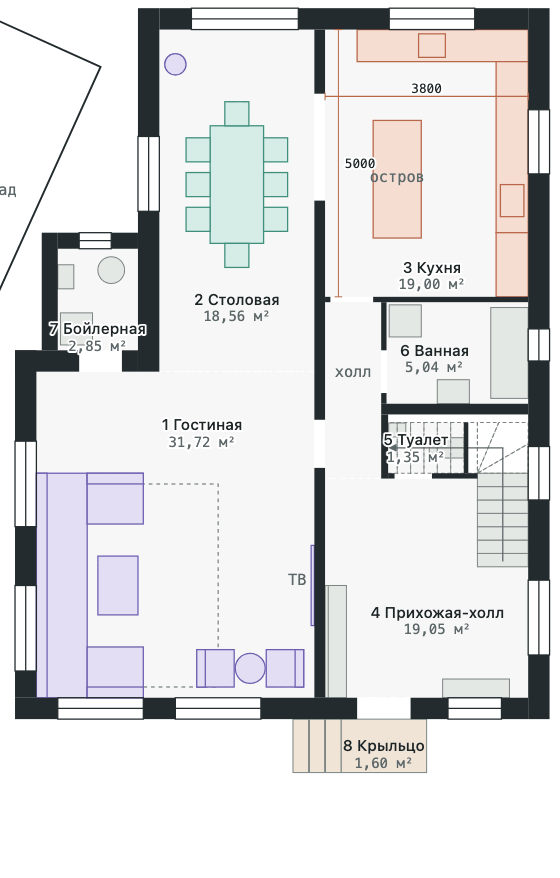
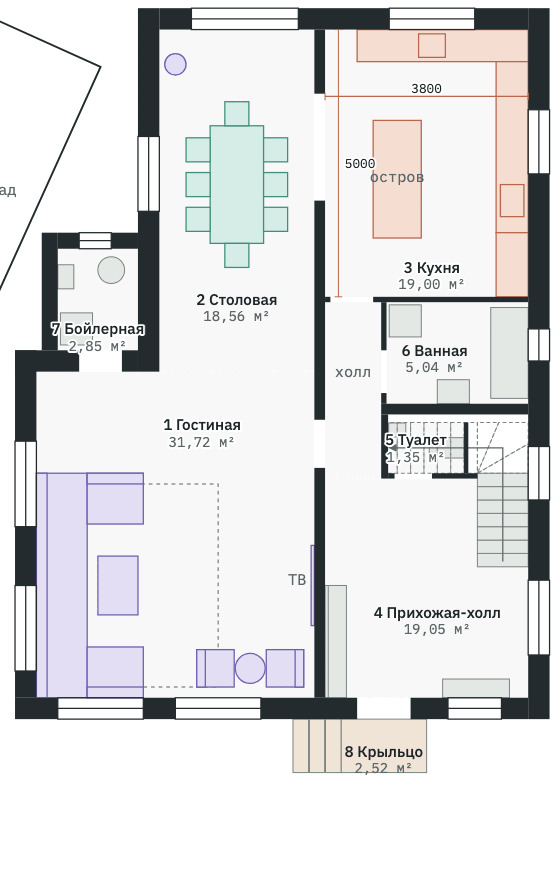
Variant 5: wide front-facing porch, roof timber frame view, brief build plan

diff --git a/dom/v5-dvuskatnaya.html b/dom/v5-dvuskatnaya.html
@@ -99,6 +99,7 @@ tr.out td{color:var(--muted)}
 <button id="fl-0" data-f="0" aria-pressed="false">Только фундамент</button>
 <span class="sep" aria-hidden="true"></span>
 <button id="roof-btn" aria-pressed="true">Крыша</button>
+<button id="raft-btn" aria-pressed="false" title="Снять кровлю и показать стропильную систему">Каркас крыши</button>
 <button id="truck-btn" aria-pressed="false" title="Показать или убрать грузовик у ворот">Машина</button>
 </div>
 <div class="bar big" id="tabs"><span class="lbl">Вид</span>
@@ -135,7 +136,7 @@ tr.out td{color:var(--muted)}
 <tr><td>3</td><td>Ростверк 300 × 400 под несущей стеной и бойлерной, 16,2 м</td><td>1,9 м³</td></tr>
 <tr><td>4</td><td>Плита перекрытия 200 мм, 122,2 м²</td><td>24,4 м³</td></tr>
 <tr class="sum"><td></td><td>Бетон под дом</td><td>39,0 м³</td></tr>
-<tr class="out"><td>5</td><td>Крыльцо со ступенями, если монолитом</td><td>≈ 1,4 м³</td></tr>
+<tr class="out"><td>5</td><td>Крыльцо со ступенями, если монолитом</td><td>≈ 2,2 м³</td></tr>
 <tr class="out"><td>6</td><td>Площадка в сад со ступенями, если монолитом</td><td>≈ 2,7 м³</td></tr>
 </table>
 <table id="tu" style="margin-top:14px"><caption>Выпуски через плиту пола · привязки в м от наружных граней</caption></table>
@@ -151,7 +152,7 @@ tr.out td{color:var(--muted)}
 <tr><td>6</td><td>Ванная</td><td>5,04</td></tr>
 <tr><td>7</td><td>Бойлерная, пристройка</td><td>2,85</td></tr>
 <tr class="sum"><td></td><td>Итого</td><td>97,57</td></tr>
-<tr class="out"><td>8</td><td>Крыльцо</td><td>1,60</td></tr>
+<tr class="out"><td>8</td><td>Крыльцо</td><td>2,52</td></tr>
 </table>
 <table id="t2">
 <caption>Экспликация · 2 этаж</caption>
@@ -197,17 +198,18 @@ tr.out td{color:var(--muted)}
 <li><b>Участки.</b> Новый дом стоит на участке …299. Правая стена в 2 м от границы с …300, это обязательный отступ. Задняя стена дома осталась на месте, дом укоротился спереди, поэтому фасад теперь в 6,5 м от переднего забора. Выступ смотрит в дальний конец участка, вход к воротам. На участке …300 уже стоит двухэтажный дом 11 × 10 м в 2 м от границы и в 6 м от переднего забора. Я нарисовал его по фото. Крыша двускатная несимметричная, конёк идёт от фасада к заднему забору и сдвинут вправо, длинный пологий скат смотрит на новый дом. Карниз примерно на 5 м, конёк на 7,6 м, это оценка по фото. Считаю, что фасад с гаражом смотрит на передний забор. Пристройки сзади не рисовал. Снег с длинного ската будет сходить в двухметровую полосу у границы, так что на этот скат стоит поставить снегозадержатели. Между домами получается 4 м. Это меньше обычного противопожарного разрыва между домами на соседних участках (от 6 м), стоит проверить, как это решается для ваших двух участков. По замерам левый забор проходит на 0,6–0,9 м дальше, чем по кадастровым цифрам, поэтому торец с воротами на плане вышел ≈8,8 м вместо 8. Его лучше перемерить. Забор высотой 2 м идёт по всему внешнему периметру обоих участков, между ними забора нет. Ворота 4,5 м без верхней балки и калитка стоят в нижнем левом торце, от калитки к крыльцу ведёт дорожка.</li>
 <li><b>Что изменилось в этой версии.</b> Дом поднят на 0,7 м над землёй и стоит на ростверке по сваям вместо плиты на грунте. Подвала и приямка больше нет. Длина сократилась с 15,3 до 13,3 м: бойлерная ушла из правой половины в пристройку между домом и складом, прихожая и гостиная стали чуть короче. Кухня переехала на место детской и выросла до 19 м², на её прежнем месте продолжается гостиная. Выреза под крыльцо нет: фасад ровный, входная дверь ближе к центру. Прежняя планировка осталась в истории версий.</li>
 <li><b>Фундамент — ростверк по буронабивным сваям.</b> Сваи Ø300 мм уходят на 2 м в грунт, их 37: по углам, на пересечениях стен и между ними с шагом до 2 м. По сваям ростверк: 400 × 400 мм под наружными стенами и 300 × 400 мм под несущей стеной вдоль дома и под пристройкой бойлерной. Низ ростверка на уровне земли, под ним оставляют зазор 100 мм на пучение. По ростверку монолитная плита перекрытия 200 мм, под ней продуваемое подполье 0,4 м с продухами в ростверке. Отметки от чистого пола: верх плиты −0,100, низ плиты и верх ростверка −0,300, земля −0,700, низ свай −2,700. Бетона под дом ≈ 39 м³: сваи 5,2, ростверк 9,4, плита 24,4. Утеплитель пола кладут под стяжку или подшивают снизу плиты. Это схема: длину, шаг и армирование свай и ростверка считает конструктор по геологии участка. При высоких грунтовых водах или слабом грунте сваи могут понадобиться длиннее 2 м.</li>
-<li><b>Подъём на 0,7 м.</b> Крыльцо сделано компактным, чтобы не мешать заезду машины: площадка 1,6 × 1,0 м на уровне пола прямо у двери, а три ступени идут вбок, вдоль фасада в сторону ворот. Вперёд от стены крыльцо выступает на 1,0 м, до колеи грузовика остаётся 2,5 м. Всего четыре подъёма по 175 мм, сверху навес на двух стойках. У двери в сад площадка 2,4 × 1,2 м со ступенями в сад.</li>
-<li><b>Mercedes Atego с кузовом 7 м</b> (вся машина около 9,3 м) заезжает вдоль переднего забора и проезжает вперёд до границы второго участка. До забора 0,5 м, до фасада около 3,5 м, до крыльца около 2,5 м. Чтобы грузовик заезжал прямо вдоль забора, ворота 4,5 м сдвинуты в самый угол торца, калитка дальше по торцу. Это работает, если с улицы он подъезжает примерно вдоль переднего забора. Площадка засыпана асфальтной крошкой. Кузов высотой около 3,3 м стоит напротив окон гостиной, но теперь дальше от них.</li>
+<li><b>Подъём на 0,7 м.</b> К входной двери ведёт широкое крыльцо, смотрящее вперёд: площадка 1,8 × 1,4 м на уровне пола и три ступени вниз на всю ширину, всего четыре подъёма по 175 мм, над крыльцом навес на двух стойках. От фасада крыльцо выступает на 2,3 м. У двери в сад площадка 2,4 × 1,2 м со ступенями в сад.</li>
+<li><b>Mercedes Atego с кузовом 7 м</b> (вся машина около 9,3 м) заезжает вдоль переднего забора и проезжает вперёд до границы второго участка. До забора 0,5 м, до фасада около 3,5 м, до нижней ступени крыльца около 1,2 м, то есть машина проходит рядом с крыльцом почти впритык. Чтобы грузовик заезжал прямо вдоль забора, ворота 4,5 м сдвинуты в самый угол торца, калитка дальше по торцу. Это работает, если с улицы он подъезжает примерно вдоль переднего забора. Площадка засыпана асфальтной крошкой. Кузов высотой около 3,3 м стоит напротив окон гостиной, но теперь дальше от них.</li>
 <li><b>Склад 5,5 × 5,6 м</b> стоит стороной 5,6 м вплотную к левому забору, под углом ≈24° к дому. Склад обшит OSB. Дверь пластиковая прозрачная, у склада два окна 1 × 1 м: рядом с дверью слева и справа за углом. Через 1 м после склада вдоль забора в сторону ворот стоит вагончик-бытовка 8 × 2,4 м на блоках: обшит серым профлистом, по контуру синий профиль, крыша плоская чёрная. Дверь справа на длинной стороне к двору, окна только в торцах. Между углом склада и задней частью дома 0,7 м, от передней широкой части до склада тоже 0,7 м. В треугольнике между ними теперь стоит пристройка бойлерной, до склада от неё 0,3 м, так что прохода вдоль этой стороны дома нет. Склад стоит на стальных сваях с зазором 40 см от земли. Корпус высотой 3 м со стороны дома и 2 м у забора, крыша со скатом к забору. Вход через обычную пластиковую дверь с крыльцом из трёх ступенек в торце со стороны входа в дом.</li>
 <li><b>Гостиная и столовая.</b> Гостиная заняла всю широкую левую часть от ступеньки дома до фасада, 5,2 × 6,1 м, 31,7 м²; перегородки с кухней больше нет. П-образный диван стоит у левой стены ближе к фасаду, телевизор на несущей стене напротив, у окон на фасад два кресла. Задняя часть гостиной, где раньше была кухня, свободна. В заднем левом углу дверь в бойлерную, дверь в холл — в несущей стене напротив. Столовая осталась в узкой задней части, 2,9 × 6,4 м: стол на 8 человек и стеклянная дверь 2 м в сад. Между столовой и гостиной стены нет.</li>
 <li><b>Кухня</b> на месте детской, справа сзади, 3,8 × 5,0 м, 19 м² вместо 15,6. В столовую из неё открытый проём 2,0 м в несущей стене, в холл — дверь. Столешница с мойкой идёт вдоль задней стены под окном, вдоль правой стены столешница с варочной под вторым окном и высокие колонны, посередине остров 0,9 × 2,2 м. От острова 1,1 м до задней столешницы, 1,4 м до правой и 0,9 м до несущей стены. Подоконники обоих окон подняты до 1,05 м, чтобы под ними прошла столешница. Мебель нарисована условно, перед заказом нужен замер на месте. Детской на первом этаже больше нет.</li>
 <li><b>Бойлерная</b> — одноэтажная пристройка 1,8 × 2,2 м в треугольнике между домом и складом, внутри 1,5 × 1,9 м, 2,85 м². Вход из заднего угла гостиной, окно смотрит в сад. Внутри котёл на стене, бойлер, стиральная и сушильная машины колонной и стеллаж с фильтрами. Сюда же приходит вода и отсюда расходится отопление. Комната вдвое меньше прежней, поэтому электрический щит перенесён в прихожую. Если котёл газовый, размеры и окно бойлерной надо сверить с требованиями газовой службы: обычно нужен объём не меньше 15 м³ и открывающееся окно, а здесь выходит около 8 м³.</li>
 <li><b>Прихожая и вход.</b> Входная дверь стоит в ровной фасадной стене, в 0,6 м от несущей стены, то есть почти по центру фасада. Прихожая-холл 3,8 × 4,1 м вместе с коридором вдоль несущей стены 19,1 м². Слева от двери вдоль несущей стены открытая вешалка 2,1 м со скамьёй, справа под окном обувница, у двери электрический щит. Слева от первого марша лестницы ниша 1,8 × 0,9 м под шкаф. Лестница начинается у правой стены, от двери до её первой ступени 2,5 м по диагонали: дверь сдвинулась к центру, поэтому ступени теперь не прямо напротив неё, а правее.</li>
-<li><b>Лестница буквой Г.</b> Первый марш идёт от прихожей вдоль правой стены вглубь дома: 7 ступеней шириной 0,95 м. В углу три забежные ступени с поворотом налево, под окном. Второй марш, ещё 7 ступеней, выходит в коридор второго этажа. Всего 18 подъёмов по 170 мм, проступь 250 мм.</li>
+<li><b>Лестница буквой Г.</b> Первый марш идёт от прихожей вдоль правой стены вглубь дома: 7 ступеней шириной 0,95 м. В углу три забежные ступени с поворотом налево, под окном. Второй марш, ещё 7 ступеней, выходит в коридор второго этажа. Всего 18 подъёмов по 170 мм, проступь 250 мм. Это в пределах норм для частного дома (подъём до 200 мм, проступь от 250 мм), но проступь на нижней границе: формула удобства 2 × 170 + 250 = 590 мм при норме 600–640.</li>
 <li><b>Ванная и туалет раздельно.</b> Туалет встал под вторым маршем лестницы, на месте кладовки: 0,95 × 1,4 м, вход из прихожей. У двери потолок 2,25–2,6 м, там стоишь в полный рост и висит маленькая раковина; унитаз стоит дальше, где под ступенями 1,7–2,0 м. Ниже 1,6 м пространство отгорожено. Прежний санузел стал ванной 5,0 м² без унитаза: ванна, раковина и место под шкаф или вторую стиральную машину. В туалете нужна своя вытяжка. Кладовки под лестницей больше нет.</li>
 <li><b>Несущая стена вдоль дома</b> идёт от задней стены до фасада, 12,5 м. На первом этаже в ней открытый проём 2,0 м между кухней и столовой и дверь из гостиной в холл, над обоими нужны перемычки. Конёк крыши идёт прямо над ней, коньковый прогон опирается на неё. Перекрытие справа перекрывает 3,8 м, слева в широкой части 5,2 м, там нужны плиты перекрытия или усиленные балки.</li>
 <li><b>Крыша двускатная, уклон 30°.</b> Конёк идёт вдоль всего дома над несущей стеной на высоте ≈ 7,8 м от пола 1 этажа (≈ 8,5 м от земли). Спереди и сзади фронтоны. Левый скат над широкой частью длиннее правого и опускается ниже на 0,8 м, поэтому фасад несимметричный. Над узкой задней частью тот же левый скат обрезан по стене, сзади слева получается ступенька в карнизе. Свесы по 500 мм.</li>
+<li><b>Каркас крыши</b> открывается кнопкой «Каркас крыши» в 3D на втором этаже: кровля снимается, видна стропильная система. Мауэрлат 150 × 150 по верху наружных стен. Коньковый прогон лежит над несущей стеной на стойках и фронтонах, поэтому стропила не распирают стены. Стропила 50 × 200 с шагом 600 мм, около 24 пар; правый скат 5,5 м по стропилу, левый над широкой частью 7,2 м, поэтому под ним посередине прогон 100 × 200 на стойках, которые прячутся в перегородках второго этажа. Через пару стропил ригель 50 × 150, сверху обрешётка. Сечения ориентировочные, их должен подтвердить расчёт под снеговую нагрузку вашего района.</li>
 <li><b>Второй этаж полумансардный.</b> Стены второго этажа доходят до скатов. Справа наружная стена 2,2 м, в комнате у стены 2,3 м. Слева в широкой части стена 1,4 м, у стены в комнате 1,5 м, а в 1,7 м от неё уже 2,5 м. Сзади слева, в узкой части, стена почти полная, 2,7 м. В низкой левой стене вертикальные окна не помещаются, поэтому в обеих спальнях слева и в общем санузле стоят окна в крыше. Справа и во фронтонах окна обычные, справа чуть ниже прежних.</li>
 <li><b>Снег.</b> Левый скат широкой части смотрит в сторону склада и вагончика, снег с него сходит туда, а край крыши подходит к переднему углу склада почти вплотную. Над узкой частью край крыши, как и раньше, над углом склада. На левом скате нужны снегозадержатели и водосток.</li>
 <li><b>Второй этаж.</b> Сзади на всю ширину мастер-блок, 23,8 м²: спальня 13,1 м² справа, гардеробная 7,0 м² (2,9 × 2,4 м) слева через дверь в несущей стене и свой санузел 3,75 м² с душем сразу за спальней, вход в него только из спальни. Общая ванная 4,9 м² стоит у лестницы, вход из коридора: ванна, унитаз, раковина и стиральная машина. Оба санузла стоят друг за другом над ванной первого этажа, поэтому у них общая стена с трубами и один стояк, но хозяева разные: один у мастер-спальни, второй общий на три остальные спальни. Спален ещё три, у каждой дверь из коридора: посередине слева 13,5 м² со шкафом во всю стену 2,9 м у гардеробной, у фасада слева 16,4 м² и справа 12,0 м²; в правой шкаф-купе 2,6 м стоит вдоль стены коридора сбоку от двери, проход от двери к окну свободен. Под низким левым скатом, где в полный рост не встать, кладовая 10,1 м² буквой Г (к ней отошла ниша у спальни) с окном в крыше: стеллажи, сезонные вещи, гладильная доска. Гостиной наверху нет. Коридор шириной 1,2 м идёт вдоль несущей стены.</li>
@@ -216,6 +218,21 @@ tr.out td{color:var(--muted)}
 <li><b>Размеры кухни</b> на плане первого этажа — только помещение, в мм по чистым стенам без отделки: 3800 × 5000, потолок 2800. Мебель нарисована условно, кухонщики расставят её сами после своего замера.</li>
 <li><b>Площади</b> посчитаны по модели по внутренним размерам комнат. Лестница буквой Г с тремя забежными ступенями, 18 подъёмов по 170 мм. Это схема для обсуждения, не рабочий чертёж.</li>
 </ul>
+<h2 style="font-size:16px;font-weight:500;margin:22px 0 8px">План строительства, очень коротко</h2>
+<ol class="notes">
+<li><b>Подготовка, 1–2 месяца.</b> Геология участка, рабочий проект с расчётом фундамента, перекрытий и крыши, уведомление о строительстве, временное электричество и вода, вынос осей дома.</li>
+<li><b>Фундамент, 3–5 недель.</b> Бурение и заливка 37 свай, опалубка и арматура ростверка, гильзы под канализацию, воду и электричество, заливка ростверка и плиты перекрытия, набор прочности.</li>
+<li><b>Коробка первого этажа, 3–4 недели.</b> Наружные и несущая стены, перемычки, армопояс, перекрытие между этажами, лестничный проём.</li>
+<li><b>Второй этаж и фронтоны, 2–3 недели.</b> Стены, фронтоны, армопояс под мауэрлат.</li>
+<li><b>Крыша, 3–4 недели.</b> Мауэрлат, коньковый прогон, стропила, плёнка, обрешётка, кровля, окна в крыше, водостоки. После этого дом закрыт от дождя.</li>
+<li><b>Тёплый контур, 2–3 недели.</b> Окна, входные двери, утепление крыши и пола, бойлерная-пристройка.</li>
+<li><b>Наружные сети, 2–3 недели.</b> Септик у склада, ввод воды из-за второго дома, кабель от забора, заземление.</li>
+<li><b>Инженерка внутри, 4–6 недель.</b> Перегородки, электрика, вода и канализация, отопление и котёл, стяжка полов, штукатурка.</li>
+<li><b>Отделка, 2–4 месяца.</b> Фасад, чистовая отделка, лестница, сантехника, кухня, межкомнатные двери.</li>
+<li><b>Снаружи.</b> Крыльцо и площадка в сад, отмостка, площадка под машину, регистрация дома.</li>
+</ol>
+<p class="hint" style="margin-top:8px">Сроки ориентировочные, для бригады 4–5 человек без простоев: коробка под крышей за 4–5 месяцев, весь дом за 10–14 месяцев. Бетон и кладку удобнее вести в тёплый сезон.</p>
+
 </div>
 
 <script>
@@ -315,7 +332,7 @@ ROOF:{ridge:3700,knee:2100},LEN:12900
    [3550,0,300,YE-400],[-1500,3800,300,2200],[-1200,3800,1500,300]],
   piles:pl2,
   /* крыльцо и площадка у двери в сад: площадка на уровне пола и три ступени, [x, y, по x, по y, отметка верха] */
-  porch:[[4100,YE,1600,1000,-20],[3800,YE,300,1000,-195],[3500,YE,300,1000,-370],[3200,YE,300,1000,-545],
+  porch:[[4000,YE,1800,1400,-20],[4000,YE+1400,1800,300,-195],[4000,YE+1700,1800,300,-370],[4000,YE+2000,1800,300,-545],
    [1100,-1600,2400,1200,-20],[1100,-1900,2400,300,-195],[1100,-2200,2400,300,-370],[1100,-2500,2400,300,-545]],
   /* выпуски через плиту пола: [код, вид, x, y, Ø мм, что, подпись: r/l/u] — к: канализация, в: вода, э: кабель, з: заземление */
   util:[['К1','k',5800,350,50,'Мойка и посудомойка на кухне','r'],
@@ -409,7 +426,7 @@ drawPlan(document.getElementById('plan1'),{
   el('polygon',{points:PT([[4980,7825],[5140,7750],[5140,7900]]),fill:'var(--muted)'});},
  labels:[['1 Гостиная','31,72',1500,7500,'middle',1],['2 Столовая','18,56',2150,5150],['3 Кухня','19,00',5800,4550,'middle',1],['4 Прихожая-холл','19,05',5900,11000],
   ['5 Туалет','1,35',5500,7780,'middle',1],['6 Ванная','5,04',5850,6100],['7 Бойлерная','2,85',-450,5700,'middle',1],
-  ['8 Крыльцо','1,60',4900,13500]],
+  ['8 Крыльцо','2,52',4900,13600]],
  notes:[['склад',-2400,3100,'middle'],['холл',4325,6500,'middle'],['ТВ',3450,10400,'end'],['остров',5150,2850,'middle']]
 });
 (function kdims(){
@@ -515,7 +532,7 @@ drawPlan(document.getElementById('plan1'),{
   ['Участки',[['Задний забор …299',f1(XB-PL.P1[0]),'расчёт'],['Левый забор',f1(10600+LF),'расчёт'],['Торец с воротами',f1(hy(PL.P4,PL.P5)),'перемерить'],
    ['Передний забор …299',f1(hy(PL.D2,PL.P4)),'кадастр'],['Граница …299 / …300',f1(YF-PL.P1[1]),'расчёт'],['Задний забор …300',f1(hy(PL.D1,PL.P2)),'кадастр'],
    ['Правый забор …300',f1(hy(PL.P2,PL.P3)),'расчёт'],['Передний забор …300',f1(hy(PL.P3,PL.D2)),'кадастр']]],
-  ['Постройки',[['Новый дом','10,0 × 13,3','проект'],['Задняя часть дома','7,7 × 6,4','проект'],['Бойлерная, пристройка','1,8 × 2,2','проект'],['Площадка у двери в сад','2,4 × 1,2','проект'],['Крыльцо','1,6 × 1,0','проект'],
+  ['Постройки',[['Новый дом','10,0 × 13,3','проект'],['Задняя часть дома','7,7 × 6,4','проект'],['Бойлерная, пристройка','1,8 × 2,2','проект'],['Площадка у двери в сад','2,4 × 1,2','проект'],['Крыльцо','1,8 × 1,4','проект'],
    ['Склад',f1(K.W)+' × '+f1(K.L),'замер'],['Вагончик','8,0 × 2,4','проект'],['Дом на …300, 2 этажа','11 × 10','замер']]],
   ['Новый дом — привязка',[['До границы с …300',f1(XB-8000),'от вас'],['До переднего забора',f1(YF-HS.LEN),'проект'],['До заднего забора',f1(-400-PL.P1[1]),'расчёт'],
    ['До дома на …300',f1(O[0]-8000),'расчёт'],['Септик 2 × 2 м — угол дома',f1(Math.min(...FD.septPts.map(q=>Math.hypot(q[0]-300,q[1]+400)))),'расчёт'],['Септик — склад','вплотную','от вас'],['Задняя часть — угол склада',f1(300-TE[0]),'расчёт'],['Широкая часть — склад','0,7','от вас'],['Бойлерная — склад','0,3','расчёт']]],
@@ -695,7 +712,7 @@ drawPlan(document.getElementById('plan2'),{
 (function(){
 const HS=window.HOUSE;
 const msg=document.getElementById('msg');
-const state={floor:2,tab:'v3',view:'front',cut:false,roof:true,truck:false,lay:{k:false,w:false,o:false,e:false,z:false}};
+const state={floor:2,tab:'v3',view:'front',cut:false,roof:true,raft:false,truck:false,lay:{k:false,w:false,o:false,e:false,z:false}};
 const VIEWS={1:[['all','Общий вид'],['top','Сверху'],['front','Со стороны входа'],['entry','Крыльцо'],['nw','Со стороны склада'],['site','Участок и склад'],['truck','Ворота и Атего'],['old','Дом на …300'],['living','Гостиная'],['dining','Столовая'],['kitchen','Кухня'],['corridor','Холл'],['stair','Лестница'],['stairtop','Лестница сверху'],['priem','Прихожая'],['priemtop','Прихожая сверху'],['boiler','Бойлерная']],
  2:[['front','Со стороны входа'],['entry','Крыльцо'],['nw','Со стороны склада'],['site','Участок и склад'],['truck','Ворота и Атего'],['old','Дом на …300'],['all2','Общий вид'],['top2','Сверху'],['master','Мастер-спальня'],['closet','Гардеробная'],['ensuite','Санузел спальни'],['nwbed','Спальня посередине'],['cabinet','Спальня слева спереди'],['swbed','Спальня справа спереди'],['bath2','Ванная'],['store','Кладовая'],['corridor2','Коридор']],
  0:[['fall','Общий вид'],['ftop','Сверху'],['ffront','Со стороны входа'],['fnw','Со стороны склада'],['fbelow','Снизу, ростверк и сваи'],['futil','Выпуски крупно']]};
@@ -709,7 +726,8 @@ function renderViews(){
  const c=document.createElement('button');c.id='v-cut';c.textContent='Срез стен';c.setAttribute('aria-pressed',state.cut);c.onclick=()=>{state.cut=!state.cut;renderViews();api&&api.cut(state.cut);};viewsBar.appendChild(c);
 }
 const roofBtn=document.getElementById('roof-btn');
-function syncRoof(){roofBtn.setAttribute('aria-pressed',state.roof&&state.floor===2);roofBtn.disabled=state.floor!==2;}
+const raftBtn=document.getElementById('raft-btn');
+function syncRoof(){roofBtn.setAttribute('aria-pressed',state.roof&&state.floor===2);roofBtn.disabled=state.floor!==2;raftBtn.setAttribute('aria-pressed',state.raft&&state.floor===2);raftBtn.disabled=state.floor!==2;}
 function applyFloor(){
  document.querySelectorAll('#floors button[data-f]').forEach(b=>b.setAttribute('aria-pressed',+b.dataset.f===state.floor));
  ['0','1','2'].forEach(n=>['plan','t'].forEach(p=>document.getElementById(p+n).toggleAttribute('hidden',+n!==state.floor)));
@@ -725,7 +743,8 @@ function applyFloor(){
 document.querySelectorAll('#floors button[data-f]').forEach(b=>b.addEventListener('click',()=>{
  state.floor=+b.dataset.f;state.view=['fall','all','all2'][state.floor];applyFloor();renderViews();if(api){api.floor(state.floor);api.go(state.view);}
 }));
-roofBtn.addEventListener('click',()=>{state.roof=!state.roof;syncRoof();api&&api.roof();});
+roofBtn.addEventListener('click',()=>{state.roof=!state.roof;if(state.roof)state.raft=false;syncRoof();api&&api.roof();});
+raftBtn.addEventListener('click',()=>{state.raft=!state.raft;syncRoof();if(state.raft&&state.cut){state.cut=false;api&&api.cut(false);}if(state.raft){state.view='all2';renderViews();api&&api.go('all2');state.raft=true;syncRoof();}api&&api.roof();});
 const truckBtn=document.getElementById('truck-btn');
 truckBtn.addEventListener('click',()=>{state.truck=!state.truck;truckBtn.setAttribute('aria-pressed',state.truck);document.getElementById('site').classList.toggle('no-truck',!state.truck);api&&api.truck();});
 document.querySelectorAll('#tabs button').forEach(b=>b.addEventListener('click',()=>{
@@ -900,7 +919,7 @@ function bar(p1,p2,wd,z,h,c,parent){const dx=p2[0]-p1[0],dy=p2[1]-p1[1],L=Math.h
  me.position.set(mm((p1[0]+p2[0])/2),mm(z+h/2),mm((p1[1]+p2[1])/2));me.rotation.y=-Math.atan2(dy,dx);me.castShadow=true;me.receiveShadow=true;(parent||G).add(me);return me;}
 /* односкатная кровля пристройки бойлерной и навес над крыльцом на двух стойках */
 B(-1650,3650,2050,2750,HS.H1,140,'#4a4f55',f1,{roughness:0.6,metalness:0.3});
-B(3100,HS.LEN,2700,1150,2450,90,'#4a4f55',f1,{roughness:0.6,metalness:0.3});B(5620,HS.LEN+1000,80,80,-20,2470,'#5a5f64',f1);B(3150,HS.LEN+1000,80,80,HS.FUND.gr,2450-HS.FUND.gr,'#5a5f64',f1);
+B(3900,HS.LEN,2000,1500,2450,90,'#4a4f55',f1,{roughness:0.6,metalness:0.3});[4000,5720].forEach(x=>B(x,HS.LEN+1300,80,80,-20,2470,'#5a5f64',f1));
 const roofG=new THREE.Group();f1.add(roofG);
 
 /* ---------- 2 этаж ---------- */
@@ -958,7 +977,22 @@ const rw=(x0,x1,y0,y1)=>{const xc=(x0+x1)/2,yc=(y0+y1)/2,Ls=(x1-x0)/Math.cos(Mat
  [[Ls+80,30,w+80,'#3a3e43',RT+15],[Ls,20,w,null,RT+40],[Ls,12,w,'#d4e6ee',-8]].forEach(([l,t,ww,c,dz])=>{
   const me=new THREE.Mesh(new THREE.BoxGeometry(mm(l),mm(t),mm(ww)),c?mat(c):glass);me.position.set(mm(xc),mm(uAbs(xc)+dz),mm(yc));me.rotation.z=Math.PI/6;roofGrp.add(me);});};
 rw(-1500,-700,8000,8500);rw(-1500,-500,9800,10580);rw(-1500,-500,11000,11780);
-function roofVis(){roofGrp.visible=state.floor===2&&state.roof&&!state.cut;}
+/* деревянный каркас крыши: мауэрлаты, коньковый прогон над несущей стеной, прогон со стойками под длинным левым скатом,
+   стропила 50×200 с шагом 600, ригели через пару, обрешётка */
+const raftG=new THREE.Group();scene.add(raftG);raftG.visible=false;
+{const WD='#c99a5b',WD2='#b58648',WD3='#dcb47a',A=Math.PI/6,C=Math.cos(A);
+ const incl=(xa,xb,y,w,t,c,dz)=>{const xc=(xa+xb)/2,me=new THREE.Mesh(new THREE.BoxGeometry(mm(Math.abs(xb-xa)/C),mm(t),mm(w)),mat(c));
+  me.position.set(mm(xc),mm(uAbs(xc)+dz),mm(y));me.rotation.z=xc<RX?A:-A;me.castShadow=true;raftG.add(me);};
+ for(let y=-875;y<=HS.LEN+480;y+=600){const xl=y<5500?-200:-2500;
+  incl(xl,RX,y,50,175,WD,100);incl(RX,8500,y,50,175,WD,100);
+  if(Math.round((y+875)/600)%2===0)B(RX-1500,y+25,3000,50,uAbs(RX-1500)-150,150,WD2,raftG);}
+ B(RX-60,-900,120,HS.LEN+1400,uAbs(RX)-260,250,WD2,raftG);
+ B(7650,-400,150,HS.LEN+400,uAbs(7725)-150,150,WD2,raftG);B(450,-400,150,6400,uAbs(525)-150,150,WD2,raftG);B(-1850,6000,150,HS.LEN-6000,uAbs(-1775)-150,150,WD2,raftG);
+ B(650,6000,100,HS.LEN-6000,uAbs(700)-200,200,WD2,raftG);[6200,7275,9275,10900,12700].forEach(y=>B(650,y-50,100,100,HS.FL2,uAbs(700)-200-HS.FL2,WD2,raftG));
+ [-650,7275,HS.LEN-200].forEach(y=>B(RX-75,y-75,150,150,HS.FL2+HS.H2,uAbs(RX)-260-HS.FL2-HS.H2,WD2,raftG));
+ for(let x=RX-150;x>-2500;x-=300){const y0=x<-200?5500:-900;B(x-25,y0,50,HS.LEN+500-y0,uAbs(x)+RT,40,WD3,raftG);}
+ for(let x=RX+150;x<8500;x+=300)B(x-25,-900,50,HS.LEN+1400,uAbs(x)+RT,40,WD3,raftG);}
+function roofVis(){const on=state.floor===2&&!state.cut;raftG.visible=on&&state.raft;roofGrp.visible=on&&state.roof&&!state.raft;}
 
 /* ---------- участки, забор, ворота ---------- */
 {
@@ -1078,7 +1112,7 @@ function roofVis(){roofGrp.visible=state.floor===2&&state.roof&&!state.cut;}
 
 /* всё, кроме дома и фундамента, — в группу участка: её прячет режим «Только фундамент» */
 const siteG=new THREE.Group();
-scene.children.filter(o=>o!==f1&&o!==f2&&o!==roofGrp&&o!==fundG&&o!==sun.target&&!o.isLight).forEach(o=>siteG.add(o));
+scene.children.filter(o=>o!==f1&&o!==f2&&o!==roofGrp&&o!==raftG&&o!==fundG&&o!==sun.target&&!o.isLight).forEach(o=>siteG.add(o));
 scene.add(siteG);
 /* дом поднят на 0,7 м: пол остаётся на отметке 0, а весь участок с землёй опущен до −0,700 */
 siteG.position.y=mm(FD.gr+350);

diff --git a/index.html b/index.html
@@ -82,7 +82,7 @@ h2{font-size:18px;font-weight:600;margin:0}
 <div class="body">
 <span class="tag">ВАРИАНТ 5</span>
 <h2>10 × 13,3 м на сваях, двускатная крыша</h2>
-<p>Дом поднят на 0,7 м: ростверк по сваям 2 м, подвала нет. Слева гостиная 31,7 м² на всю широкую часть и столовая с выходом в сад, справа сзади кухня 19 м² с островом. Вход в ровной фасадной стене ближе к центру, крыльцо со ступенями вбок, лестница буквой Г с туалетом под маршем, отдельная ванная, бойлерная в пристройке. Наверху мастер-спальня с гардеробной и своим санузлом, три спальни, общая ванная и кладовая.</p>
+<p>Дом поднят на 0,7 м: ростверк по сваям 2 м, подвала нет. Слева гостиная 31,7 м² на всю широкую часть и столовая с выходом в сад, справа сзади кухня 19 м² с островом. Вход в ровной фасадной стене ближе к центру, широкое крыльцо со ступенями вперёд, лестница буквой Г с туалетом под маршем, отдельная ванная, бойлерная в пристройке. Наверху мастер-спальня с гардеробной и своим санузлом, три спальни, общая ванная и кладовая.</p>
 <span class="nums">1 этаж <b>97,6</b> · 2 этаж <b>94,0</b> · всего <b>≈191,5 м²</b></span>
 <a class="btn" href="dom/v5-dvuskatnaya.html">Открыть</a>
 </div>

diff --git a/dom/README.md b/dom/README.md
@@ -8,7 +8,7 @@
 | `v2-vhod-sleva.html` | По эскизу. Размеры как в варианте 5, два полных этажа, двускатная крыша. Справа вдоль несущей стены кухня-столовая и гостиная. Слева бойлерная и санузел сзади, спальня, лестница, холл, тамбур и крыльцо спереди. Артефакт: https://claude.ai/artifact/3iNbKe61ds9eAX2H2THzCe |
 | `v3-kuhnya-gostinaya-u-vhoda.html` | Планировка варианта 4 (вход, кухня и гостиная слева; справа холл с лестницей, санузел, бойлерная, спальня и гостевая) с двумя полными этажами и двускатной крышей. Артефакт: https://claude.ai/artifact/2fQcV7woFJbdg7w1L99MuV |
 | `v4-shirina-10m.html` | Как вариант 3, но с 6,4 м от задней стены дом одной ступенькой расширяется к складу до 10 м (до склада везде 0,7 м). Кухня-столовая 31 м², крыша буквой Т. Спальня на первом этаже стала детской с дверью из гостиной. Артефакт: https://claude.ai/artifact/JNdo8EkxG9LTb8UJyd4uq7 |
-| `v5-dvuskatnaya.html` | Дом 10 × 13,3 м, поднят на 0,7 м: ростверк по буронабивным сваям 2 м, подвала нет. Слева гостиная на всю широкую часть и столовая с выходом в сад, справа сзади кухня 19 м² с островом, ванная, лестница буквой Г с туалетом под маршем и прихожая; вход в ровной фасадной стене ближе к центру, крыльцо со ступенями вбок. Бойлерная — пристройка между домом и складом. Двускатная крыша с коньком над несущей стеной, второй этаж полумансардный: мастер-спальня с гардеробной и своим санузлом сзади, три спальни, общая ванная у лестницы и кладовая. В режиме «Только фундамент» виден участок без дома, ростверк, сваи и выпуски коммуникаций. Артефакт: https://claude.ai/artifact/1E7rer6eFDHS2GWG5vcdFW |
+| `v5-dvuskatnaya.html` | Дом 10 × 13,3 м, поднят на 0,7 м: ростверк по буронабивным сваям 2 м, подвала нет. Слева гостиная на всю широкую часть и столовая с выходом в сад, справа сзади кухня 19 м² с островом, ванная, лестница буквой Г с туалетом под маршем и прихожая; вход в ровной фасадной стене ближе к центру, широкое крыльцо со ступенями вперёд. Бойлерная — пристройка между домом и складом. Двускатная крыша с коньком над несущей стеной, второй этаж полумансардный: мастер-спальня с гардеробной и своим санузлом сзади, три спальни, общая ванная у лестницы и кладовая. В режиме «Только фундамент» виден участок без дома, ростверк, сваи и выпуски коммуникаций. Артефакт: https://claude.ai/artifact/1E7rer6eFDHS2GWG5vcdFW |
 
 ## Сайт
 
